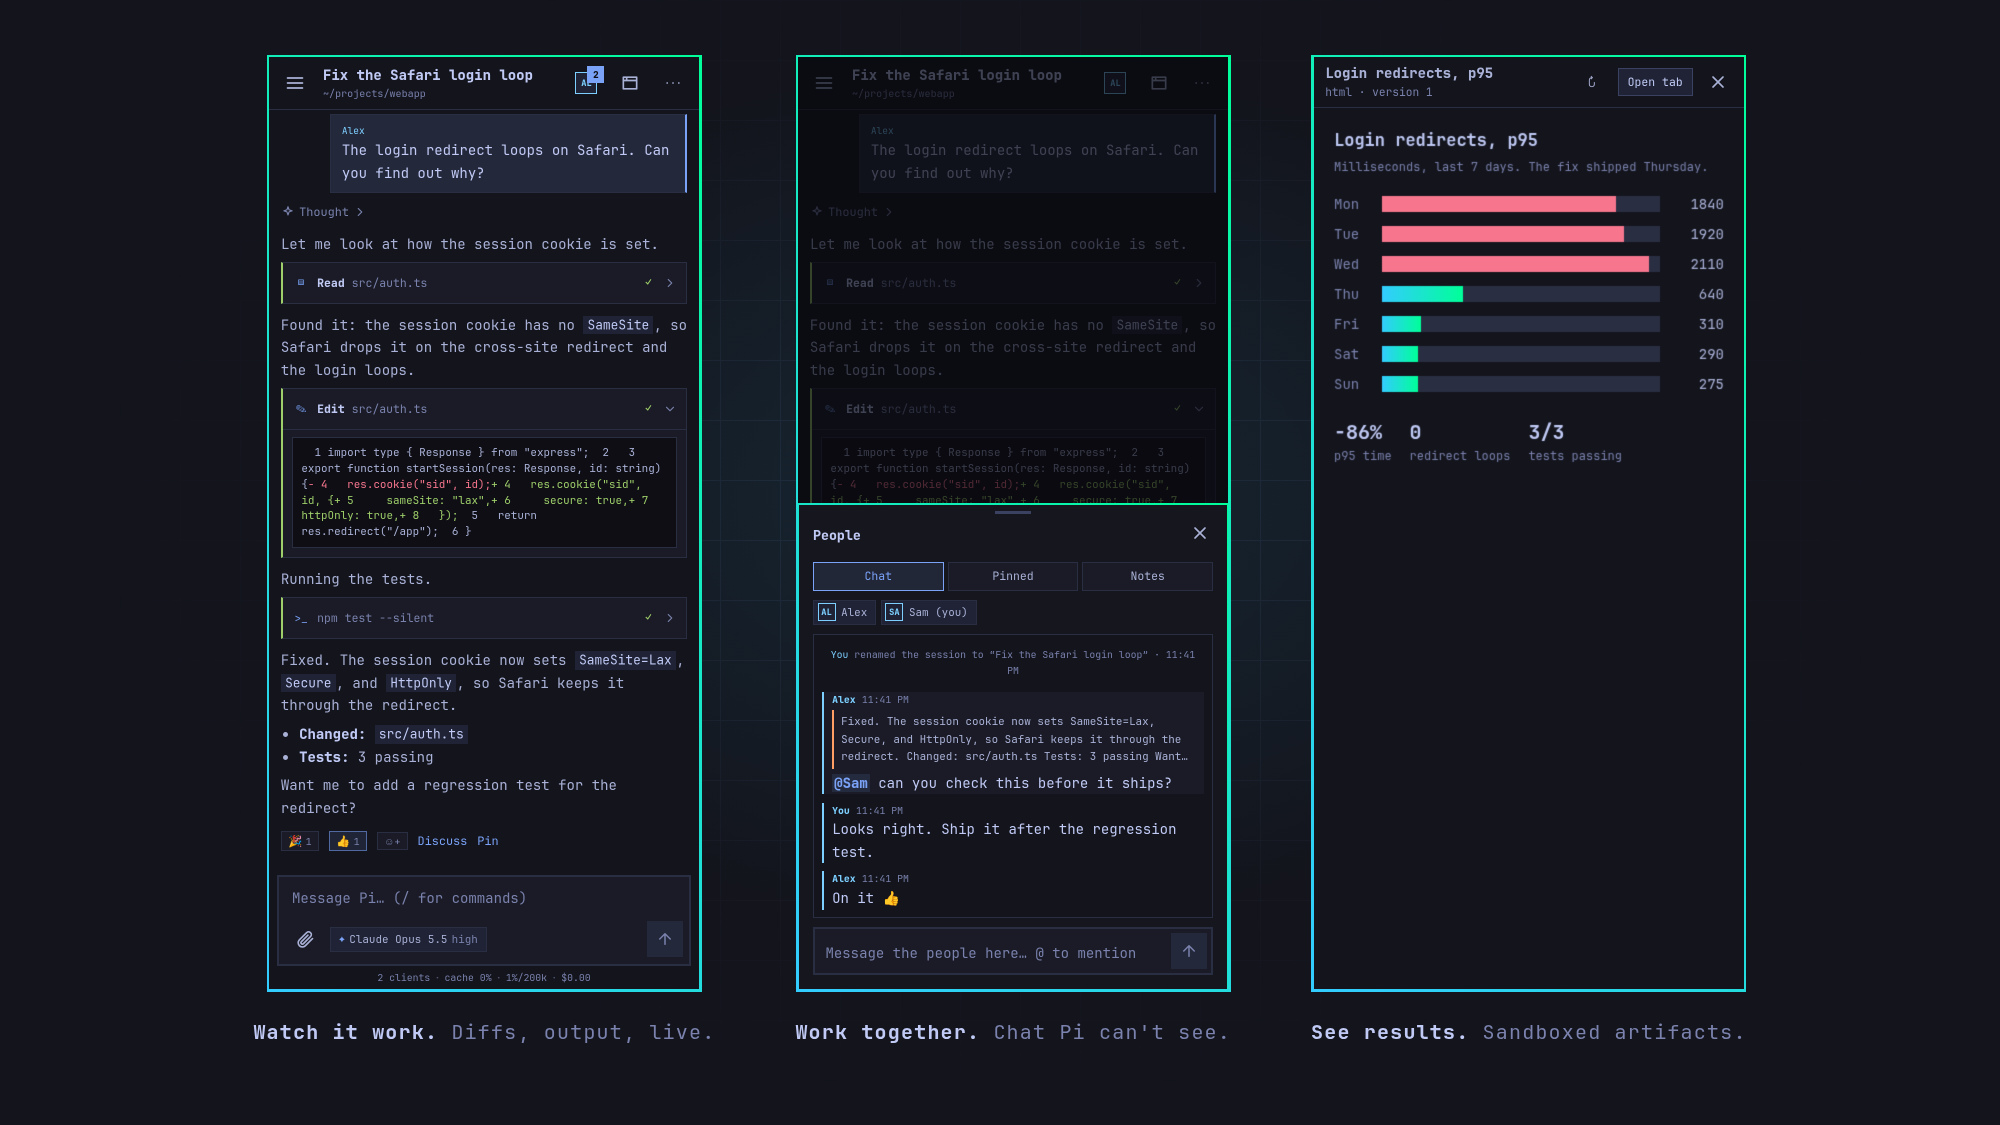
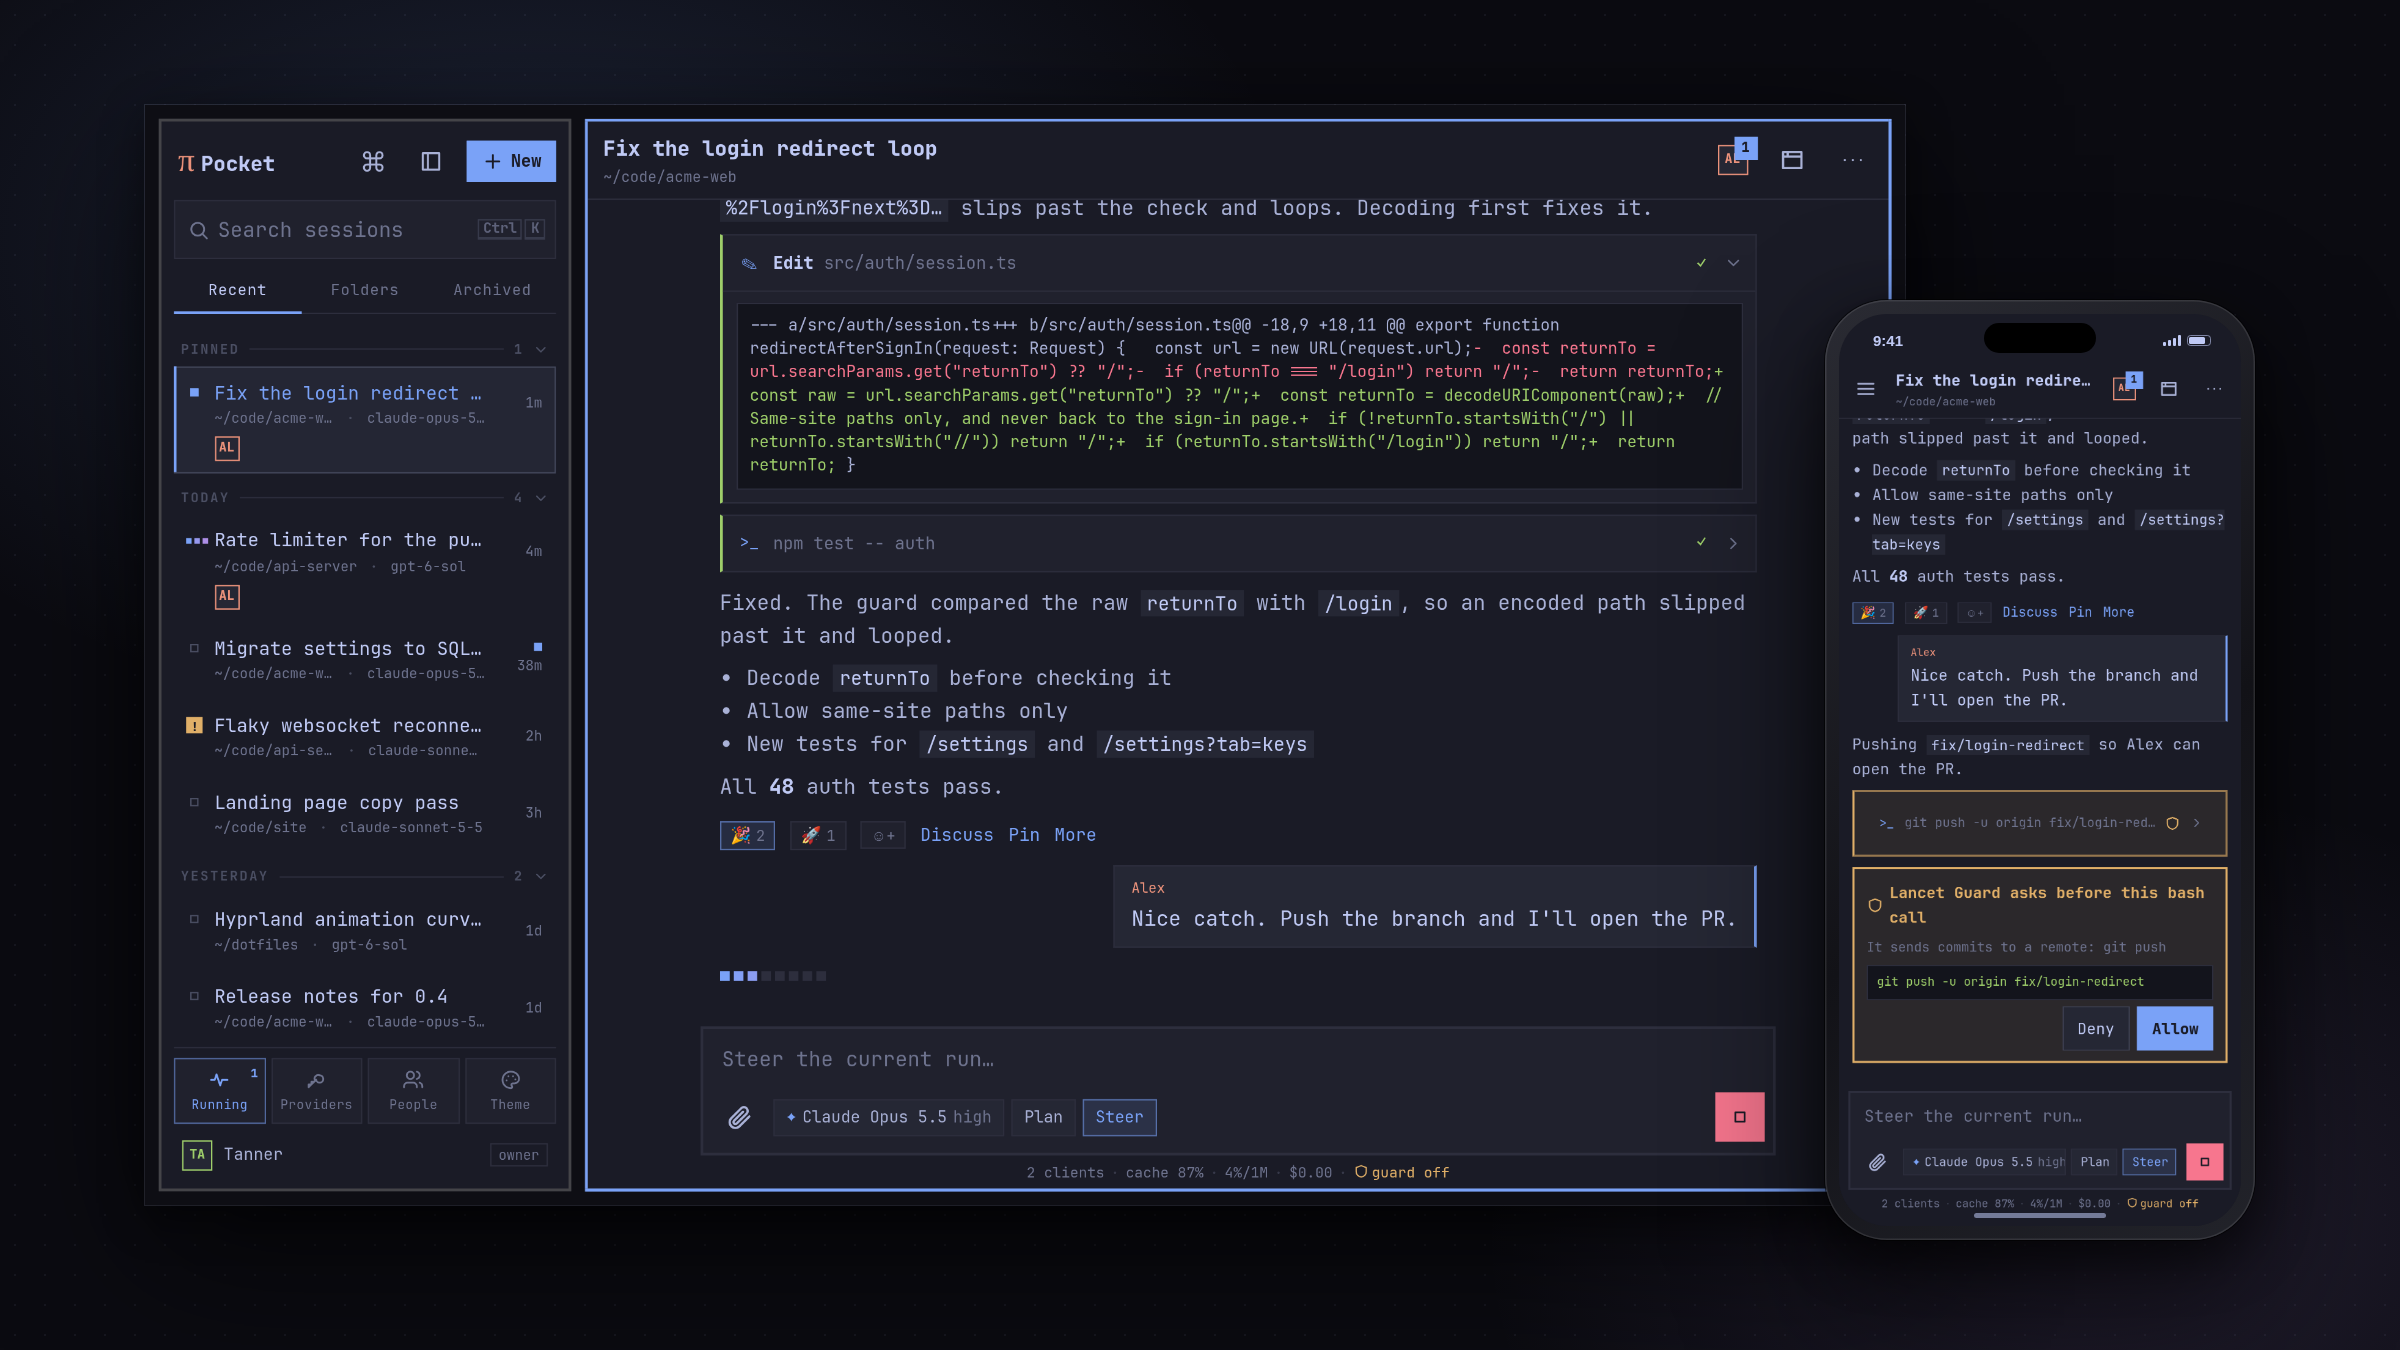
Update the README showcase for 0.4
The showcase was three phone screenshots from 0.1.0. It is now the app as it
looks in 0.4, in Tokyo Night: tiled windows on a desktop, where Pi fixes a
sign-in redirect loop with a diff and passing tests while a teammate follows
along, and the same session on a phone, waiting for approval before git push.
Real screenshots of a scripted session, composed at 2400x1350.

diff --git a/README.md b/README.md
@@ -13,7 +13,7 @@ Runs on your own machine or directly on your phone. No cloud VM.
 
 [Website](https://tannermidd.github.io/pi-pocket/) · [Quick start](#quick-start) · [Features](#features) · [Remote access](#remote-access)
 
-<img src="docs/showcase.png" alt="Pi Pocket on three phones: Pi fixing a login bug with a diff and passing tests, two people discussing the fix in the side chat, and a chart artifact" width="100%">
+<img src="docs/showcase.png" alt="Pi Pocket in the Tokyo Night theme, on a desktop and a phone. On the desktop, the sidebar lists sessions by day while Pi fixes a sign-in redirect loop in tiled windows: a diff, 48 passing tests, and a teammate asking for the branch. On the phone, the same session waits for approval before git push." width="100%">
 
 </div>
 
